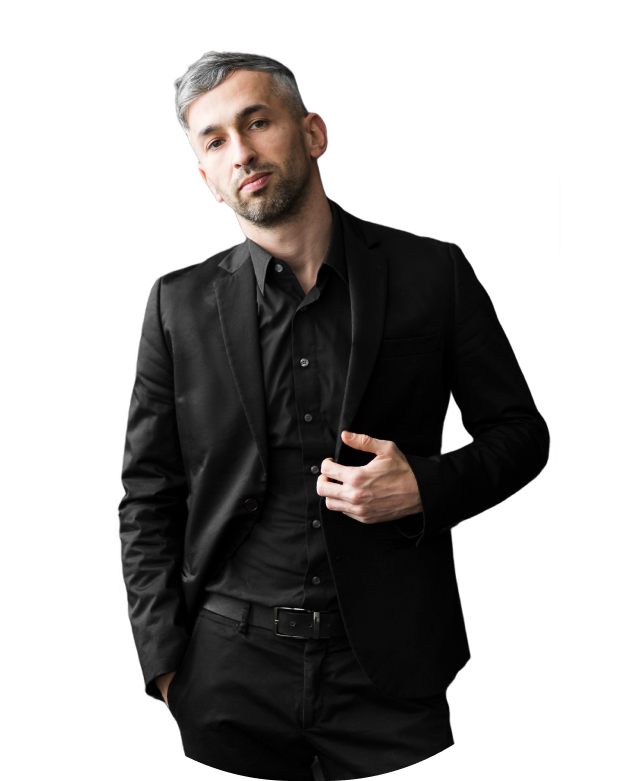
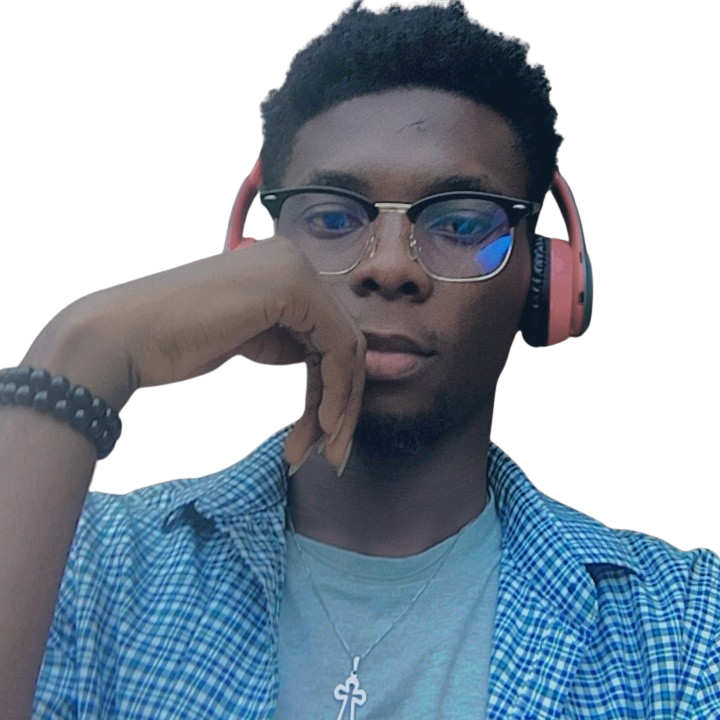
layout

diff --git a/src/components/Portifolio.jsx b/src/components/Portifolio.jsx
@@ -1,3 +1,4 @@
+
 import React, { useState } from 'react';
 import { SiGithub } from 'react-icons/si';
 import { GoArrowRight } from 'react-icons/go';
@@ -74,28 +75,30 @@ const Portfolio = () => {
         {project.map(({ img, title, descr }, index) => (
           <div
             key={index}
-            className='bg-opacity-[4%] bg-[#FFFFFF] m-2 p-4 rounded-lg slider-container'
+            className='slider-container'
             onMouseEnter={() => setHoveredIndex(index)}
             onMouseLeave={() => setHoveredIndex(null)}
-            style={{
-              transform: hoveredIndex === index ? 'scale(1.1)' : 'none',
-              transition: 'transform 0.3s ease-in-out',
-            }}
           >
-            <img src={img} alt={title} className='w-[320px]' />
-            <h3 className='mt-4'>{title}</h3>
-            <p className='w-[75%] mb-4 text-[13px] mt-4'>{descr}</p>
-            <div className='flex justify-between items-center'>
-              <div className='flex items-center'>
-                <a href='#' className='text-[13px]'>
-                  View code
-                </a>
-                <GoArrowRight />
-              </div>
-              <div>
-                <button className='bg-[#5E3BEE] hover:bg-white hover:text-[#5E3BEE] ps-4 pe-4 py-2 text-white rounded-lg text-[12px]'>
-                  <a href='#'>Live Preview</a>
-                </button>
+            <div
+              className={`bg-opacity-[4%] bg-[#FFFFFF] m-2 p-4 rounded-lg ${
+                hoveredIndex === index ? 'transform scale-110' : ''
+              } transition-transform duration-300 ease-in-out`}
+            >
+              <img src={img} alt={title} className='w-[320px]' />
+              <h3 className='mt-4'>{title}</h3>
+              <p className='w-[75%] mb-4 text-[13px] mt-4'>{descr}</p>
+              <div className='flex justify-between items-center'>
+                <div className='flex items-center'>
+                  <a href='#' className='text-[13px]'>
+                    View code
+                  </a>
+                  <GoArrowRight />
+                </div>
+                <div>
+                  <button className='bg-[#5E3BEE] hover:bg-white hover:text-[#5E3BEE] ps-4 pe-4 py-2 text-white rounded-lg text-[12px]'>
+                    <a href='#'>Live Preview</a>
+                  </button>
+                </div>
               </div>
             </div>
           </div>

diff --git a/src/components/Hero.jsx b/src/components/Hero.jsx
@@ -18,7 +18,7 @@ const Hero = () => {
 
 
   return(
-  <div className='ps-[8rem] pe-[8rem]  x:pe-[2rem] x:ps-[2rem] x:flex-col justify-between items-center flex mt-[5rem] '>
+  <div className='ps-[8rem] pe-[8rem]  x:pe-[2rem] x:ps-[2rem] x:flex-col-reverse justify-between items-center flex mt-[5rem] '>
     <div className='flex flex-col x:text-center x:mb-[3rem]'>
       <div>
         <h5>Hi I am</h5>
@@ -28,32 +28,21 @@ const Hero = () => {
         <h1 className=''>Backend developer & DevOps Engineer</h1>
       </div>
       {/* icons  */}
-      <div className='flex items-center x:justify-center  mt-4'>
-        <a href='#'>
-          <IoLogoInstagram />
-        </a>
-        <a href='#'>
-          <ImWhatsapp className='ml-2' />
-        </a>
-        <a href='#'>
-          {' '}
-          <FaXTwitter className='ml-2' />
-        </a>
-      </div>
+    
 
-      <div className='flex x:justify-center x:items-center mt-[1rem]'>
+      <div className='flex x:justify-center x:items-center mt-[2rem]'>
         <div className=''>
           <button
-            className='bg-[#5E3BEE] hover:bg-white hover:text-[#5E3BEE] ps-4 pe-4 py-2 text-white rounded-lg text-[12px]'
+            className='bg-[#5E3BEE] hover:bg-white hover:text-[#5E3BEE] px-8 py-2 text-white rounded-full text-[12px]'
             onClick={whatsapp}
           >
             Hire me
           </button>
         </div>
         {/* cv  */}
-        <div className='ml-6'>
+        <div className='ml-4'>
           <button
-            className='bg-[#5E3BEE] hover:bg-white hover:text-[#5E3BEE]  ps-4 pe-4 py-2 text-white rounded-lg text-[12px]'
+            className='bg-[#5E3BEE] hover:bg-white hover:text-[#5E3BEE]  ps-4 pe-4 py-2 text-white rounded-full text-[12px]'
             onClick={cv}
           >
             Download cv
@@ -81,7 +70,7 @@ const Hero = () => {
       <img
         src={hero_img}
         alt='hero_image'
-        className='w-[355px] x:w-[250px] animate-float'
+        className='w-[355px] x:w-[250px] animate-float rounded-full'
       />
     </div>
   </div>

diff --git a/src/components/Carousel.jsx b/src/components/Carousel.jsx
@@ -34,7 +34,7 @@ const Carousel = () => {
       </div>
       <div className='slider-container mt-[5rem]'>
         <Slider {...settings}>
-          <div className='border p-4 w-0 '>
+          <div className=' p-4 mr-4 w-0 '>
             <div className='flex'>
               <HiOutlineStar />
               <HiOutlineStar />
@@ -55,7 +55,7 @@ const Carousel = () => {
             </div>
           </div>
           {/* second  */}
-          <div className='border p-4 mr-4 w-[300px]'>
+          <div className=' p-4 mr-4 w-[300px]'>
             <div className='flex'>
               <HiOutlineStar />
               <HiOutlineStar />
@@ -76,7 +76,7 @@ const Carousel = () => {
             </div>
           </div>
           {/* third  */}
-          <div className='border p-4 w-[300px]'>
+          <div className=' p-4 scroll-mr-48 w-[300px]'>
             <div className='flex'>
               <HiOutlineStar />
               <HiOutlineStar />
@@ -97,7 +97,7 @@ const Carousel = () => {
             </div>
           </div>
           {/* four */}
-          <div className='border p-4 '>
+          <div className='  mr-4 p-4 '>
             <div className='flex'>
               <HiOutlineStar />
               <HiOutlineStar />
@@ -118,7 +118,7 @@ const Carousel = () => {
             </div>
           </div>
           {/* five  */}
-          <div className='border p-4 '>
+          <div className=' mr-4 p-4 '>
             <div className='flex'>
               <HiOutlineStar />
               <HiOutlineStar />
@@ -139,7 +139,7 @@ const Carousel = () => {
             </div>
           </div>
           {/* six  */}
-          <div className='border p-4'>
+          <div className=' mr-4 p-4'>
             <div className='flex'>
               <HiOutlineStar />
               <HiOutlineStar />

diff --git a/src/components/Footer.jsx b/src/components/Footer.jsx
@@ -35,7 +35,7 @@ const Footer = () => (
         </ul>
       </div>
       {/* icons  */}
-      <div className='flex items-center justify-center'>
+      <div className='flex items-center justify-center x:justify-center  mt-4'>
         <a href='#'>
           <IoLogoInstagram />
         </a>

diff --git a/src/index.css b/src/index.css
@@ -18,6 +18,7 @@ color: #5E3BEE;
   outline: none;
   border: 1px solid #5E3BEE;
 }
+
 @keyframes float {
   0% {
     transform: translateY(0);
